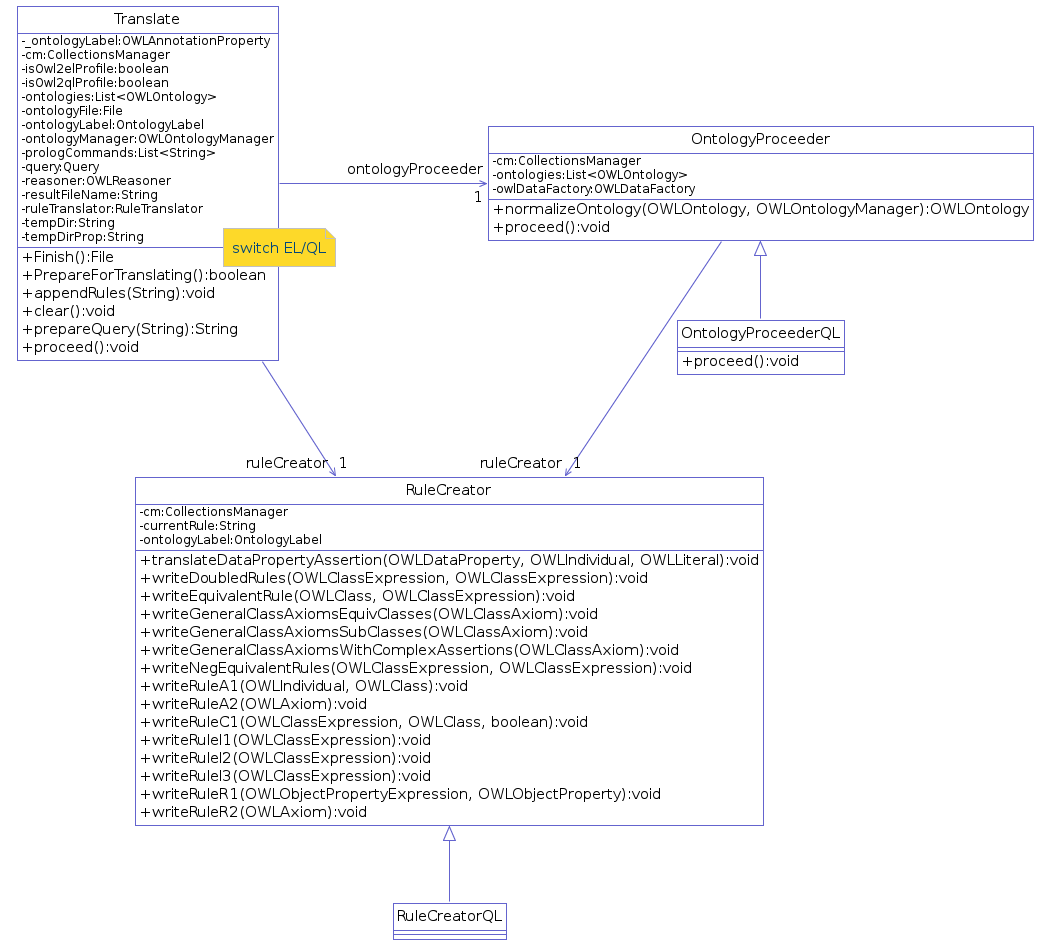
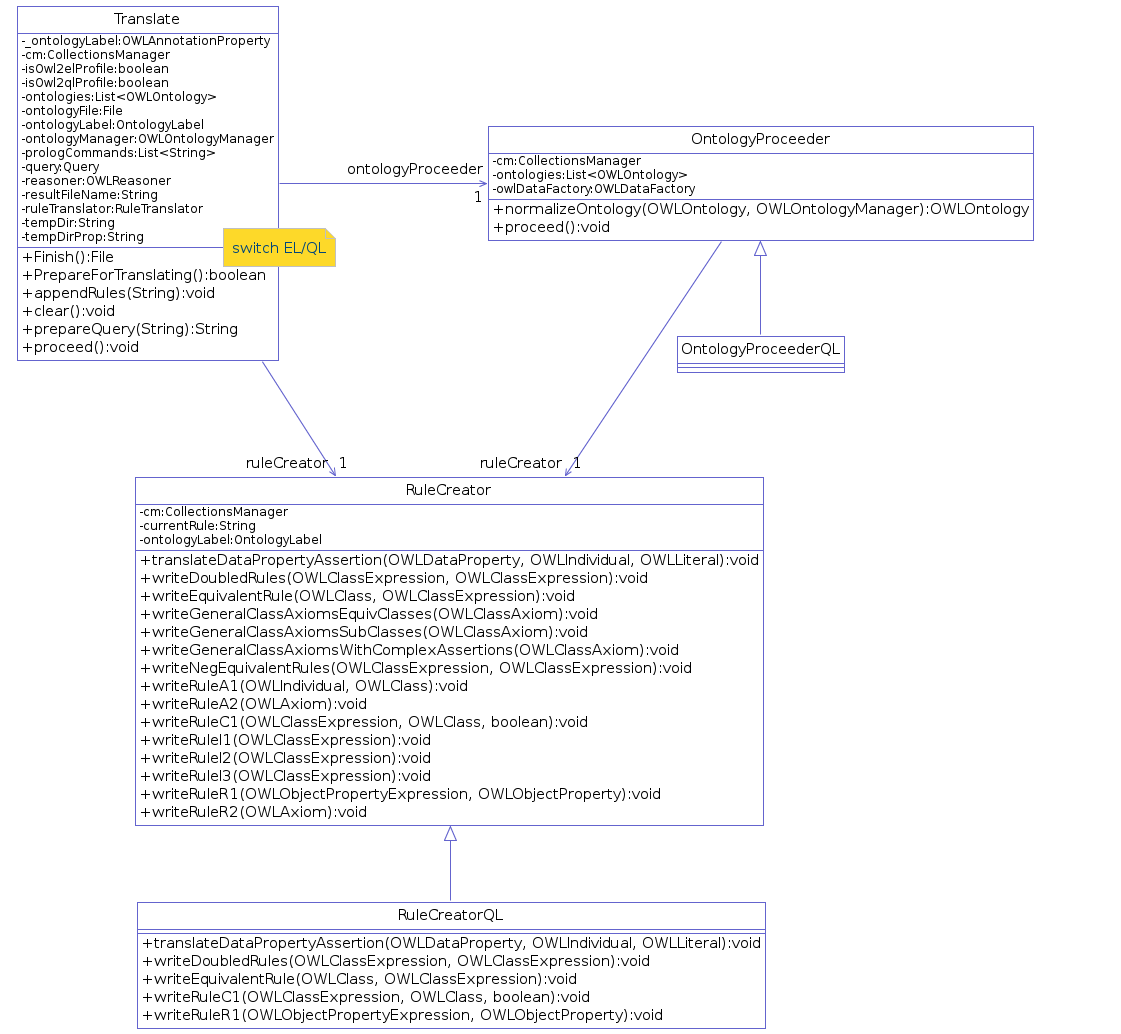
Extension of OntologyProceeder e RuleCreator to OWL QL profile sketched.

diff --git a/src/local/translate/ql/RuleCreatorQL.java b/src/local/translate/ql/RuleCreatorQL.java
@@ -1,5 +1,13 @@
 package local.translate.ql;
 
+import org.semanticweb.owlapi.model.OWLClass;
+import org.semanticweb.owlapi.model.OWLClassExpression;
+import org.semanticweb.owlapi.model.OWLDataProperty;
+import org.semanticweb.owlapi.model.OWLIndividual;
+import org.semanticweb.owlapi.model.OWLLiteral;
+import org.semanticweb.owlapi.model.OWLObjectProperty;
+import org.semanticweb.owlapi.model.OWLObjectPropertyExpression;
+
 import local.translate.CollectionsManager;
 import local.translate.OntologyLabel;
 import local.translate.RuleCreator;
@@ -8,9 +16,63 @@ public class RuleCreatorQL extends RuleCreator {
 
 	public RuleCreatorQL(CollectionsManager c, OntologyLabel ol) {
 		super(c, ol);
-		// TODO Auto-generated constructor stub
 	}
 
+	/** Translate class subsumption axioms with general subclass (atomic or complex) and atomic superclass.
+	 * 
+	 * @param classExpression general subclass expression.
+	 * @param owlClass named superclass.
+	 **/
+	@Override
+	public void writeDoubledRules(OWLClassExpression classExpression,
+			OWLClassExpression owlClass) {
+		// TODO implement
+	}
 
+	/** Translate class subsumption axioms with atomic subclass and complex superclass, from equivalent axioms.
+	 * 
+	 * @param expression named subclass.
+	 * @param superclass named superclass.
+	 **/
+	@Override
+	public void writeRuleC1(OWLClassExpression expression, OWLClass superclass,
+			boolean lastIndex) {
+		// TODO implement
+	}
+
+	/** Translate class subsumption axioms with atomic superclass and complex subclass (not atomic), from equivalent axioms.
+	 * 
+	 * @param owlClass named superclass.
+	 * @param rightPartOfRule complex (not atomic) subclass expression.
+	 **/
+	@Override
+	public void writeEquivalentRule(OWLClass owlClass,
+			OWLClassExpression rightPartOfRule) {
+		// TODO implement
+	}
+
+	/** Translate property subsumption axioms with general subproperty (atomic or complex) and atomic superproperty
+     *
+     * @param general (atomic or complex) subproperty expression
+	 * @param named superproperty
+	 **/
+	@Override
+	public void writeRuleR1(OWLObjectPropertyExpression expression,
+			OWLObjectProperty superclass) {
+		// TODO implement
+	}
+
+    /** Translates a given data property with its property name, individual, and value into a rule (or two rules).
+    *
+	*  @param data property.
+    *  @param individual.
+    *  @param value.
+    */
+	@Override
+	public void translateDataPropertyAssertion(OWLDataProperty dataProperty,
+			OWLIndividual individual, OWLLiteral value) {
+		// TODO implement
+	}
+	
 	
 }

diff --git a/src/local/translate/ql/OntologyProceederQL.java b/src/local/translate/ql/OntologyProceederQL.java
@@ -1,6 +1,5 @@
 package local.translate.ql;
 
-import org.semanticweb.owlapi.expression.ParserException;
 import org.semanticweb.owlapi.model.OWLOntology;
 
 import local.translate.CollectionsManager;
@@ -14,14 +13,22 @@ public class OntologyProceederQL extends OntologyProceeder{
 		// TODO Auto-generated constructor stub
 	}
 
+	/** Test if the ontology need to be normalized. 
+	 * 
+	 * @return false, for OWL QL. */
 	@Override
 	public boolean isOntologyNeedToBeNormalized(OWLOntology ontology) {
 		return false;
 	}
 
+	 /** Handle negative axioms*/
 	@Override
-	public void proceed() throws ParserException {
-		// TODO implement
+	protected void fillExistsOntologiesAndRules() {
+		//Note:
+		//the negative class subsumption axioms supported in the OWL EL profile
+		//are a generalization of the ones supported in OWL QL
+		super.fillExistsOntologiesAndRules();
+		//TODO: handle disjoint property axioms
 	}
 	
 	

diff --git a/src/local/translate/Translate.java b/src/local/translate/Translate.java
@@ -104,6 +104,7 @@ public class Translate {
         log.setLevel(Config.logLevel);
     }
 
+    //TODO: throw an exception if the ontology is not in a supported profile
 	private void checkOwlProfile() {
 		OWL2ELProfile owl2elProfile = new OWL2ELProfile();
 		OWL2QLProfile owl2qlProfile = new OWL2QLProfile();
@@ -305,7 +306,7 @@ public class Translate {
         }
         checkAndPartiallyNormalizeOntology();
     }
-
+    
     private void checkAndPartiallyNormalizeOntology() throws OWLOntologyCreationException, OWLOntologyStorageException {
         if (ontologyProceeder.isOntologyNeedToBeNormalized(ontology)) {
             ontology = ontologyProceeder.normalizeOntology(ontology, null);

diff --git a/src/local/translate/OntologyProceeder.java b/src/local/translate/OntologyProceeder.java
@@ -131,7 +131,7 @@ public class OntologyProceeder {
     /**
      * Going throw all ontologies and preprocess them.
      */
-    private void fillExistsOntologiesAndRules() {
+    protected void fillExistsOntologiesAndRules() {
         boolean isTopClass;
         ClassExpressionType expressionType;
         cm.setIsAnyDisjointStatement(false);

diff --git a/src/local/translate/RuleCreator.java b/src/local/translate/RuleCreator.java
@@ -195,7 +195,7 @@ public class RuleCreator {
      *
      * @param string the string
      */
-    private void writeLineToFile(String string) {
+    protected void writeLineToFile(String string) {
         string += Config.ruleCreationDebug ? currentRule : "";
         cm.addTranslatedOntology(string);
     }
